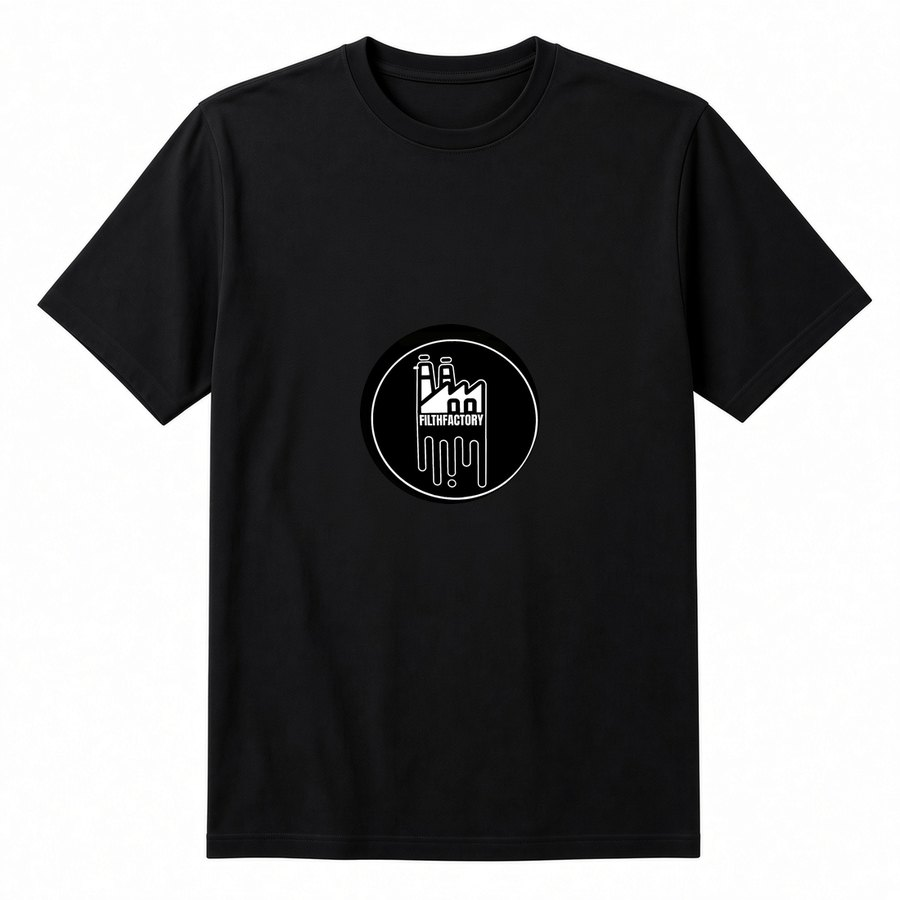
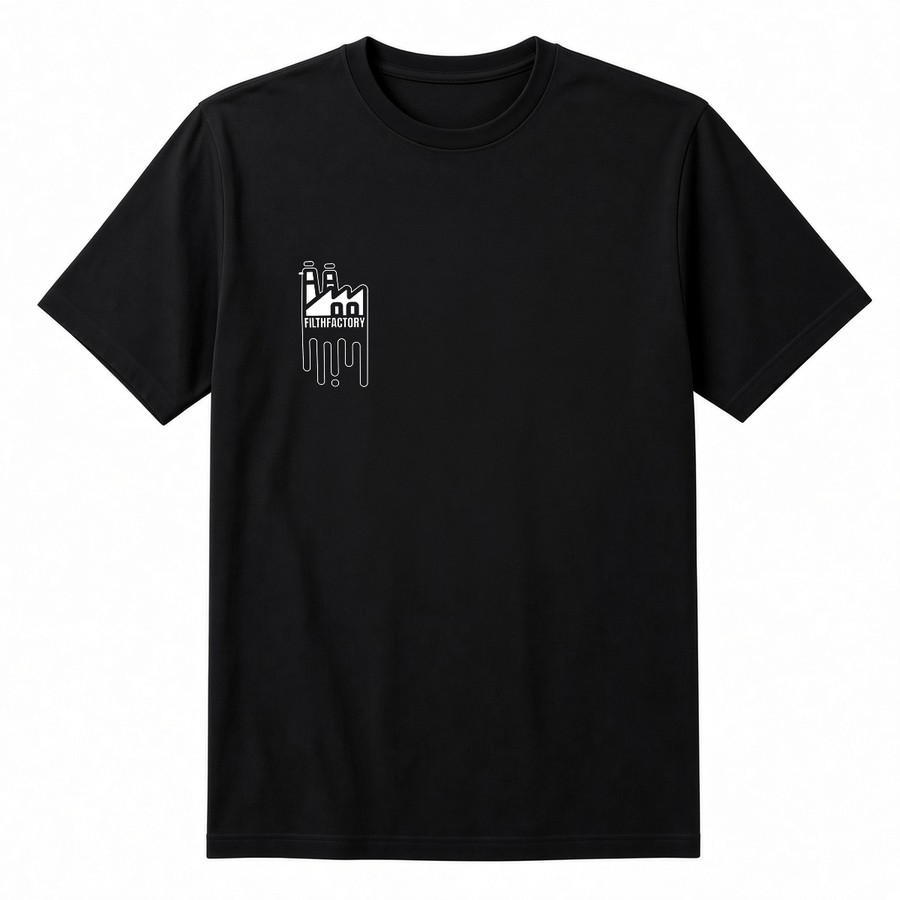
Factory merch: chimney print, no ring. Labels are shop links only.

Changed region(s): [[0.3111, 0.28, 0.5911, 0.56]]

diff --git a/src/routes/merch.tsx b/src/routes/merch.tsx
@@ -1,6 +1,7 @@
 import { createFileRoute, Link } from "@tanstack/react-router";
 import { useState } from "react";
-import { FACTORY_MERCH, FACTORY_IG, FACTORY_TIKTOK, LABEL_DROPS, LABEL_INSTAGRAM, instagramUrl } from "@/lib/merch";
+import { FACTORY_MERCH, FACTORY_IG, FACTORY_TIKTOK, LABEL_INSTAGRAM, instagramUrl } from "@/lib/merch";
+import { UK_BASS_LABELS } from "@/lib/uk-bass-labels";
 import { startMerch } from "@/lib/merch-api";
 import { Button } from "@/components/ui/button";
 import { formatGbp } from "@/lib/utils";
@@ -35,8 +36,8 @@ export function MerchPage() {
       <p className="text-xs uppercase tracking-[0.25em] text-muted">Shop / merch</p>
       <h1 className="mt-2 font-display text-4xl font-semibold uppercase tracking-wide">Shop</h1>
       <p className="mt-3 max-w-2xl text-sm leading-relaxed text-muted">
-        The circular stamp on blanks — tees in black, white, grey and olive, hoodie, beanie, snapback, keyring. Printed
-        to order, Stripe, UK post. Instagram{" "}
+        Factory print — chimneys, drips, FILTHFACTORY. Left-chest and center. Hoodie, beanie, snapback, keyring. Stripe,
+        UK post. Instagram{" "}
         <a href={instagramUrl(FACTORY_IG)} target="_blank" rel="noreferrer" className="underline underline-offset-2">
           @{FACTORY_IG}
         </a>
@@ -69,40 +70,31 @@ export function MerchPage() {
 
       <h2 className="mt-14 font-display text-2xl font-semibold uppercase tracking-wide">UK bass labels</h2>
       <p className="mt-2 max-w-2xl text-sm text-muted">
-        Same blanks, their mark. Tee {formatGbp(2800)}, hoodie {formatGbp(4800)}. We do not print or take the card —
-        tap through and buy from the label.
+        Their merch, their till. We just link it.
       </p>
-      <div className="mt-6 grid gap-6 sm:grid-cols-2 lg:grid-cols-3">
-        {LABEL_DROPS.map((lab) => {
+      <div className="mt-6 grid grid-cols-2 gap-3 sm:grid-cols-3 md:grid-cols-4 lg:grid-cols-5">
+        {UK_BASS_LABELS.map((lab) => {
           const ig = LABEL_INSTAGRAM[lab.name];
           return (
-            <article key={lab.name} className="overflow-hidden rounded-lg border border-border bg-surface">
-              <div className="grid grid-cols-2">
-                <img src={lab.tee} alt={`${lab.name} tee`} className="aspect-square w-full bg-white object-contain" />
-                <img src={lab.hoodie} alt={`${lab.name} hoodie`} className="aspect-square w-full bg-white object-contain" />
-              </div>
-              <div className="p-4">
-                <h3 className="font-display text-lg font-semibold uppercase tracking-wide">{lab.name}</h3>
-                <p className="mt-1 text-sm text-muted">
-                  Tee {formatGbp(lab.teePence)} · Hoodie {formatGbp(lab.hoodiePence)}
-                </p>
-                <p className="mt-3 flex flex-wrap gap-x-3 gap-y-1 text-sm">
-                  <a href={lab.site} target="_blank" rel="noreferrer" className="underline underline-offset-2">
-                    Buy from label
+            <article key={lab.name} className="rounded-sm border border-border bg-surface p-3">
+              <img src={lab.logo} alt="" className="aspect-square w-full rounded-sm bg-black object-contain" />
+              <p className="mt-2 truncate text-sm font-medium">{lab.name}</p>
+              <p className="flex flex-wrap gap-x-2 text-xs">
+                <a href={lab.site} target="_blank" rel="noreferrer" className="underline underline-offset-2">
+                  Shop
+                </a>
+                {ig ? (
+                  <a href={instagramUrl(ig)} target="_blank" rel="noreferrer" className="underline underline-offset-2">
+                    Instagram
                   </a>
-                  {ig ? (
-                    <a href={instagramUrl(ig)} target="_blank" rel="noreferrer" className="underline underline-offset-2">
-                      Instagram
-                    </a>
-                  ) : null}
-                </p>
-              </div>
+                ) : null}
+              </p>
             </article>
           );
         })}
       </div>
       <p className="mt-8 text-xs text-faint">
-        Filthfactory stamp is ours and goes through Stripe. Label marks belong to the labels.{" "}
+        Filthfactory drop is ours. Label shops are theirs.{" "}
         <Link to="/terms" className="underline underline-offset-2">
           Terms
         </Link>

diff --git a/src/lib/merch.ts b/src/lib/merch.ts
@@ -1,5 +1,3 @@
-import { UK_BASS_LABELS, labelMerchSlug } from "@/lib/uk-bass-labels";
-
 export type MerchKind = "tee" | "hoodie" | "beanie" | "snapback" | "keyring";
 
 export type MerchSku = {
@@ -14,11 +12,12 @@ export type MerchSku = {
 };
 
 export const FACTORY_MERCH: MerchSku[] = [
-  { id: "tee-black", name: "Stamp tee", blurb: "Black cotton. Circular stamp on the chest.", pence: 2800, image: "/art/merch/tee-black.jpg", kind: "tee", color: "Black", swatch: "#111111" },
-  { id: "tee-white", name: "Stamp tee", blurb: "White cotton. Circular stamp on the chest.", pence: 2800, image: "/art/merch/tee-white.jpg", kind: "tee", color: "White", swatch: "#f4f4f0" },
-  { id: "tee-grey", name: "Stamp tee", blurb: "Heather grey. Circular stamp on the chest.", pence: 2800, image: "/art/merch/tee-grey.jpg", kind: "tee", color: "Grey", swatch: "#8a8a86" },
-  { id: "tee-olive", name: "Stamp tee", blurb: "Olive. Circular stamp on the chest.", pence: 2800, image: "/art/merch/tee-olive.jpg", kind: "tee", color: "Olive", swatch: "#4a5a32" },
-  { id: "hoodie-black", name: "Stamp hoodie", blurb: "Black pullover. Stamp on the chest.", pence: 4800, image: "/art/merch/hoodie-black.jpg", kind: "hoodie", color: "Black", swatch: "#111111" },
+  { id: "tee-black", name: "Factory tee", blurb: "Black heavyweight. Small left-chest factory.", pence: 2800, image: "/art/merch/tee-black.jpg", kind: "tee", color: "Black", swatch: "#111111" },
+  { id: "tee-black-center", name: "Factory tee", blurb: "Black heavyweight. Center factory print.", pence: 2800, image: "/art/merch/tee-black-center.jpg", kind: "tee", color: "Black center", swatch: "#111111" },
+  { id: "tee-white", name: "Factory tee", blurb: "White heavyweight. Small left-chest factory.", pence: 2800, image: "/art/merch/tee-white.jpg", kind: "tee", color: "White", swatch: "#f4f4f0" },
+  { id: "tee-grey", name: "Factory tee", blurb: "Heather. Small left-chest factory.", pence: 2800, image: "/art/merch/tee-grey.jpg", kind: "tee", color: "Grey", swatch: "#8a8a86" },
+  { id: "tee-olive", name: "Factory tee", blurb: "Olive. Small left-chest factory.", pence: 2800, image: "/art/merch/tee-olive.jpg", kind: "tee", color: "Olive", swatch: "#4a5a32" },
+  { id: "hoodie-black", name: "Factory hoodie", blurb: "Black pullover. Factory on the chest.", pence: 4800, image: "/art/merch/hoodie-black.jpg", kind: "hoodie", color: "Black", swatch: "#111111" },
   { id: "beanie-black", name: "Stamp beanie", blurb: "Black rib. Stamp on the cuff.", pence: 1800, image: "/art/merch/beanie-black.jpg", kind: "beanie", color: "Black", swatch: "#111111" },
   { id: "snapback-black", name: "Stamp snapback", blurb: "Black flat brim. Stamp on the front.", pence: 2200, image: "/art/merch/snapback-black.jpg", kind: "snapback", color: "Black", swatch: "#111111" },
   { id: "keyring", name: "Stamp keyring", blurb: "Metal disc. The circle on your keys.", pence: 800, image: "/art/merch/keyring.jpg", kind: "keyring", color: "Steel", swatch: "#c4c4c0" },
@@ -31,27 +30,6 @@ export const DROP_SHOT = "/art/merch/drop.jpg";
 export function merchById(id: string) {
   return FACTORY_MERCH.find((m) => m.id === id) ?? null;
 }
-
-export type LabelDrop = {
-  name: string;
-  site: string;
-  tee: string;
-  hoodie: string;
-  teePence: number;
-  hoodiePence: number;
-};
-
-export const LABEL_DROPS: LabelDrop[] = UK_BASS_LABELS.map((lab) => {
-  const s = labelMerchSlug(lab.name);
-  return {
-    name: lab.name,
-    site: lab.site,
-    tee: `/art/merch/labels/${s}-tee.jpg`,
-    hoodie: `/art/merch/labels/${s}-hoodie.jpg`,
-    teePence: 2800,
-    hoodiePence: 4800,
-  };
-});
 
 /** Public Instagram profiles we link to. We do not scrape posts or sell their stock. */
 export const LABEL_INSTAGRAM: Record<string, string> = {
